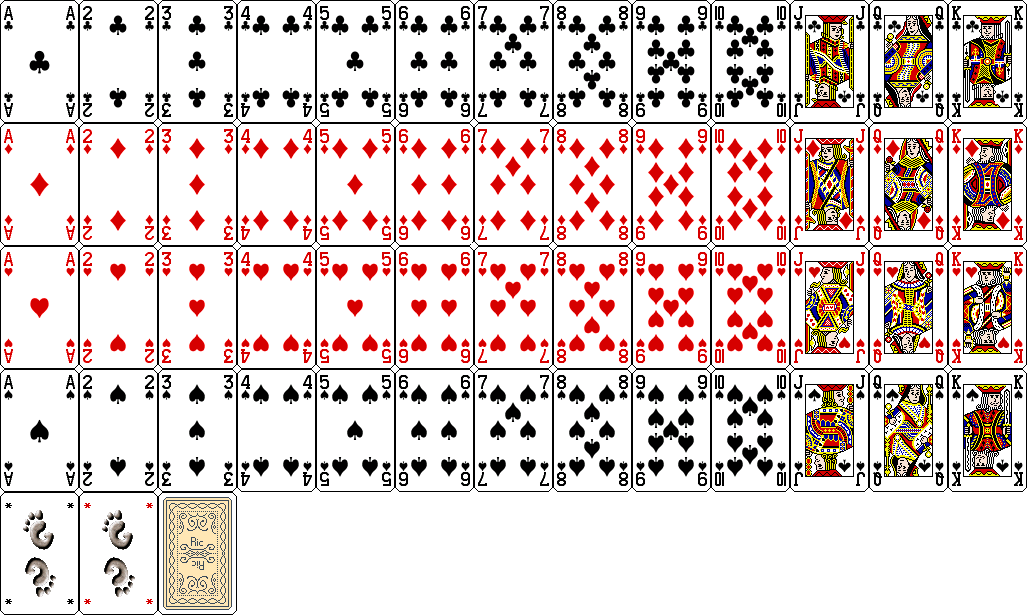
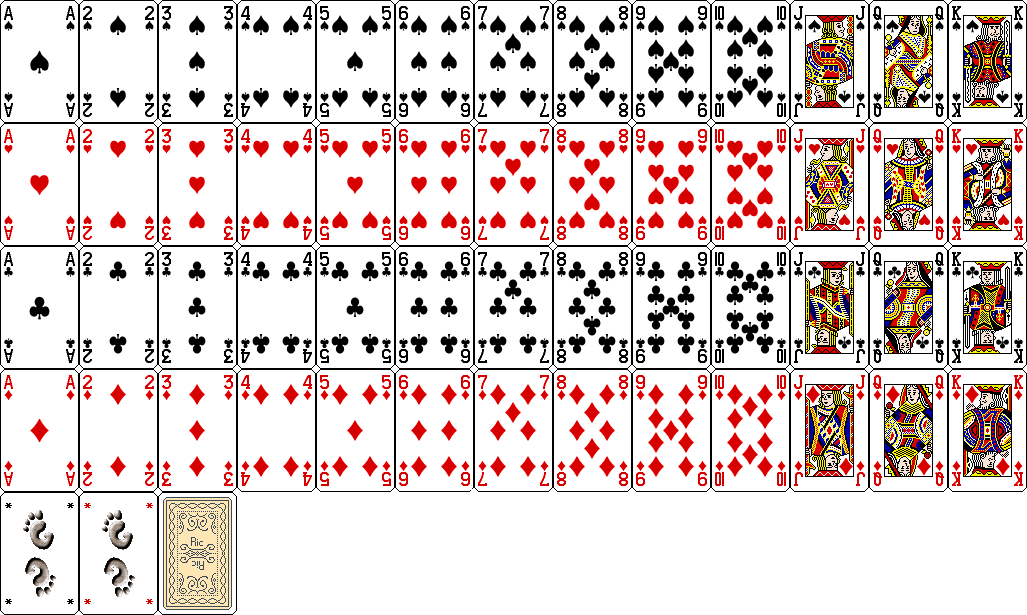
gui tests and a newly sorted card atlas

diff --git a/videopokeri/src/main/java/com/sokeri/videopokeri/gui/PokeriGUI.java b/videopokeri/src/main/java/com/sokeri/videopokeri/gui/PokeriGUI.java
@@ -13,19 +13,61 @@ import java.awt.*;
 import java.awt.event.*;
 import javax.swing.*;
 */
-import javax.swing.JPanel;
 
-public class PokeriGUI extends JPanel {
+import javax.swing.JPanel;
+import javax.swing.JFrame;
+import javax.swing.JButton;
+import java.net.URL;
+import java.awt.Dimension;
+import javax.swing.ImageIcon;
+
+
+public class PokeriGUI  {
 
     /**
     * Controls the GUI
     */
     public PokeriGUI() {
+        System.out.println("new pokerigui");
+        
+
+        JFrame frame = new JFrame();
+        JPanel panel = new JPanel();
+        frame.setSize(400,400);
+        Card card = new Card(1); // should this be moved to a conf file?
+        frame.getContentPane().add(card);
+        
+        JButton placeBet = new JButton("place_bet", loadImageIcon("/img/play.png"));
+        EventListener listener = new EventListener();
+        
+        placeBet.addActionListener(listener);
+       
+        frame.pack();
+        frame.setVisible(true);
+
+        frame.getContentPane().add(placeBet);
+
+        Dimension size = new Dimension(640, 480);
+        frame.setPreferredSize(size);
+        frame.setMinimumSize(size);
+        frame.setMaximumSize(size);
+        frame.setSize(size);
+        frame.setLayout(null);
+        
         // http://math.hws.edu/javanotes/source/
         // https://docs.oracle.com/javase/7/docs/api/javax/swing/JPanel.html
         // http://math.hws.edu/javanotes/source/chapter6/HighLowGUI.java
         // http://math.hws.edu/javanotes/source/
     }
 
-    
+    private ImageIcon loadImageIcon(String src){
+
+        URL imgURL = PokeriGUI.class.getResource(src);
+        if (imgURL != null) {
+            return new ImageIcon(imgURL);
+        } else {            
+            System.err.println("Couldn't find file: " + src);
+            return null;
+        }
+     }
 }

diff --git a/videopokeri/src/main/java/com/sokeri/videopokeri/gui/Card.java b/videopokeri/src/main/java/com/sokeri/videopokeri/gui/Card.java
@@ -1,0 +1,56 @@
+/*
+ * To change this license header, choose License Headers in Project Properties.
+ * To change this template file, choose Tools | Templates
+ * and open the template in the editor.
+ */
+package com.sokeri.videopokeri.gui;
+
+/**
+ *
+ * @author ilmari
+ */
+
+import javax.swing.JPanel;
+import java.awt.Dimension;
+import java.awt.Graphics;
+import java.awt.Image;
+
+import javax.swing.JPanel;
+import javax.swing.JFrame;
+import javax.swing.ImageIcon;
+
+public class Card extends JPanel {
+    private final int CARD_WIDTH = 79;
+    private final int CARD_HEIGHT = 123;
+
+    private Image img;
+    private int index;
+    public Card(int index){
+        this.img = new ImageIcon(Card.class.getResource("/img/cards.png")).getImage();
+        this.index = index;
+        //79x123
+        // 13 per row
+        // + wilds + backside
+/*        Dimension size = new Dimension(img.getWidth(null), img.getHeight(null));
+        setPreferredSize(size);
+        setMinimumSize(size);
+        setMaximumSize(size);
+        setSize(size);
+        setLayout(null);
+        */
+     }
+    
+    public void paintComponent(Graphics g) {
+        int row, column;
+        if (this.index!=0){
+            row = (int) (this.index-1)/13;
+            column = (this.index%13)-1;
+        } else {
+            row = 4;
+            column=0;
+        }
+    
+        g.drawImage(img, CARD_WIDTH*column, CARD_HEIGHT*row, null);
+    }
+
+}

diff --git a/videopokeri/src/main/java/com/sokeri/videopokeri/Pokeri.java b/videopokeri/src/main/java/com/sokeri/videopokeri/Pokeri.java
@@ -12,6 +12,7 @@ import com.sokeri.videopokeri.logic.Deck;
 import com.sokeri.videopokeri.money.Player;
 import com.sokeri.videopokeri.money.BetHandler;
 import com.sokeri.videopokeri.logic.Result;
+import com.sokeri.videopokeri.gui.PokeriGUI;
 /**
  *
  * @author Ilmari
@@ -27,6 +28,7 @@ public class Pokeri {
     private Player player;
     private BetHandler betHandler;
     private PokerMath math;
+    private PokeriGUI gui;
     
     public Pokeri(){
         this.math = new PokerMath("/math.json");
@@ -34,6 +36,7 @@ public class Pokeri {
         state = States.DEPOSIT;
         deck = new Deck(true,1); // create a full deck with one joker
         player = new Player();
+        gui = new PokeriGUI();
         
     }
     /**

diff --git a/videopokeri/src/main/java/com/sokeri/videopokeri/gui/EventListener.java b/videopokeri/src/main/java/com/sokeri/videopokeri/gui/EventListener.java
@@ -1,0 +1,22 @@
+/*
+ * To change this license header, choose License Headers in Project Properties.
+ * To change this template file, choose Tools | Templates
+ * and open the template in the editor.
+ */
+package com.sokeri.videopokeri.gui;
+import java.awt.event.ActionEvent;
+import java.awt.event.ActionListener;
+
+/**
+ *
+ * @author makktonnikala
+ */
+public class EventListener implements ActionListener{
+    public EventListener(){
+        
+    }
+    public void actionPerformed(ActionEvent evt) {
+        String command = evt.getActionCommand();
+        System.out.println(command);
+    }
+}
